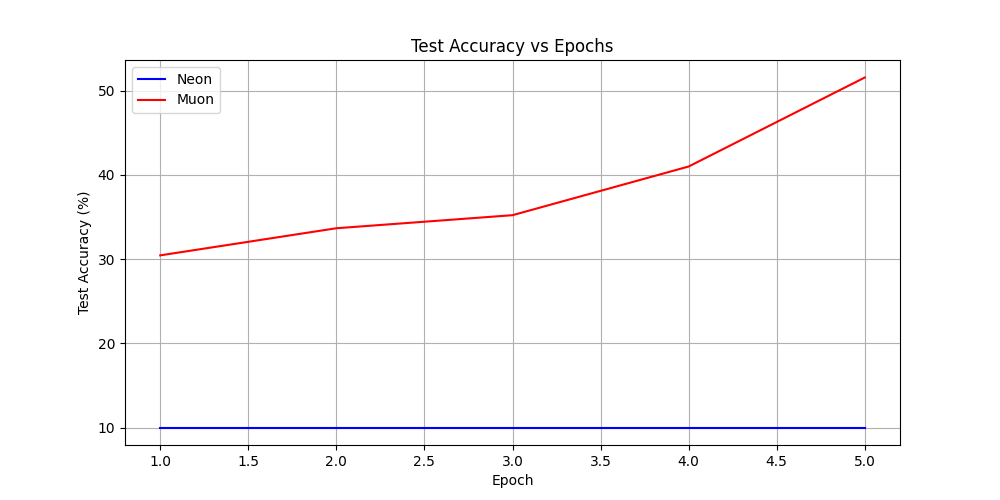
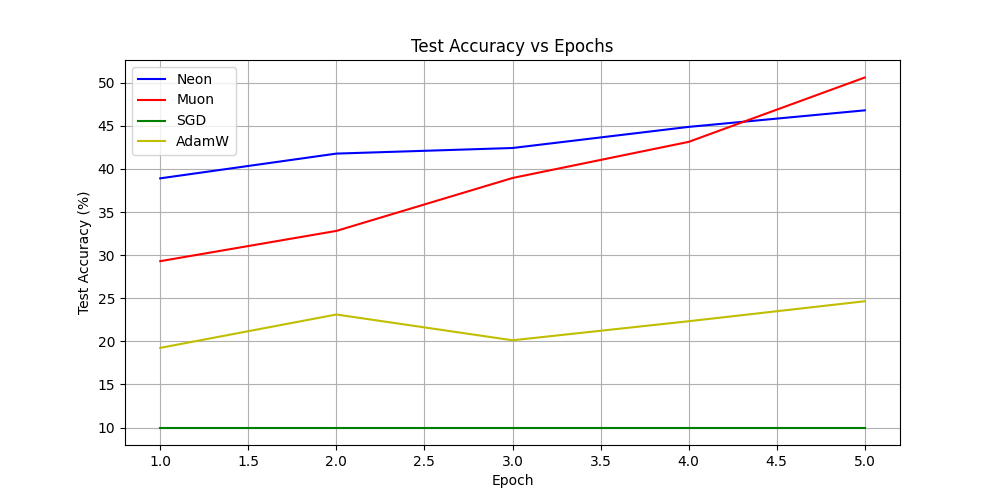
Optimizers do work, SGD  is the fastest

diff --git a/code/neon_muon_sgd.py b/code/neon_muon_sgd.py
@@ -177,9 +177,7 @@ class Neon(torch.optim.Optimizer):
                     continue
                 p.data.mul_(len(p.data)**0.5 / norm)
                 
-                # Reshape gradient to 2D if needed
-                g_reshaped = g.reshape(g.size(0), -1)
-                update = u1s1v1t_torch(g_reshaped).view(g.shape)
+                update = u1s1v1t_torch(g.reshape(len(g), -1)).view(g.shape)
                 p.data.add_(update, alpha=-lr)
 
 #############################################
@@ -366,11 +364,11 @@ def create_optimizers(model, optimizer_type, head_lr=0.1, bias_lr=0.053, wd=2e-6
     optimizer1 = torch.optim.SGD(param_configs, momentum=0.85, nesterov=True, fused=True)
     
     if optimizer_type == 'neon':
-        optimizer2 = Neon(linear_params, lr=0.24, momentum=0.6, nesterov=True)
+        optimizer2 = Neon(linear_params, lr=0.04, momentum=0.6, nesterov=True)
     elif optimizer_type == 'muon':
         optimizer2 = Muon(linear_params, lr=0.24, momentum=0.6, nesterov=True)
     elif optimizer_type == 'sgd':
-        optimizer2 = torch.optim.SGD([dict(params=linear_params, lr=0.24, weight_decay=wd/0.24)], 
+        optimizer2 = torch.optim.SGD([dict(params=linear_params, lr=0.04, weight_decay=wd/0.24)], 
                                    momentum=0.85, nesterov=True, fused=True)
     elif optimizer_type == 'adamw':
         optimizer2 = torch.optim.AdamW([dict(params=linear_params, lr=0.24, weight_decay=wd/0.24)], 
@@ -403,7 +401,7 @@ def main():
     all_epochs = []
     all_accs = []
     all_times = []
-    optimizer_names = ['Neon', 'Muon', 'SGD', 'AdamW']
+    optimizer_names = ['SGD', 'Neon', 'Muon', 'AdamW']
 
     # Train with each optimizer
     for opt_name in optimizer_names:
